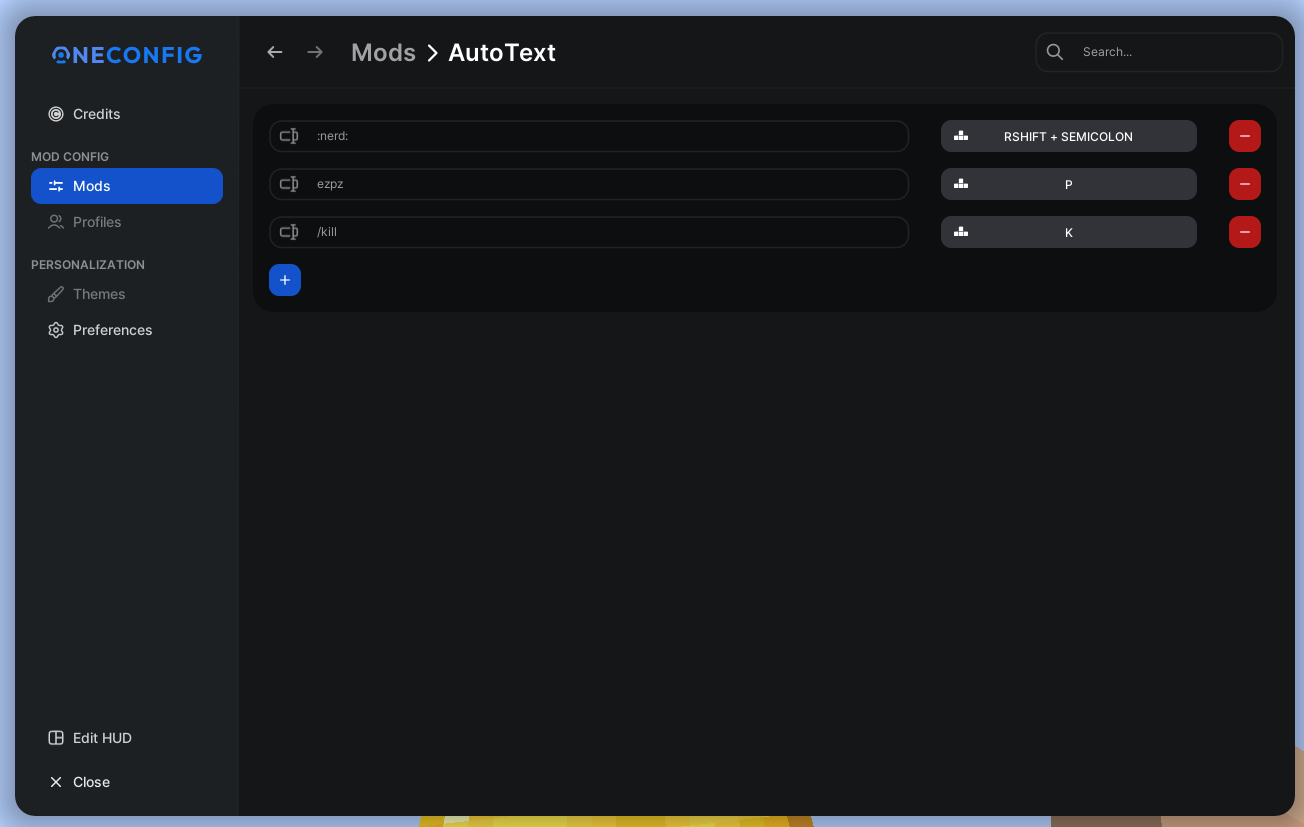
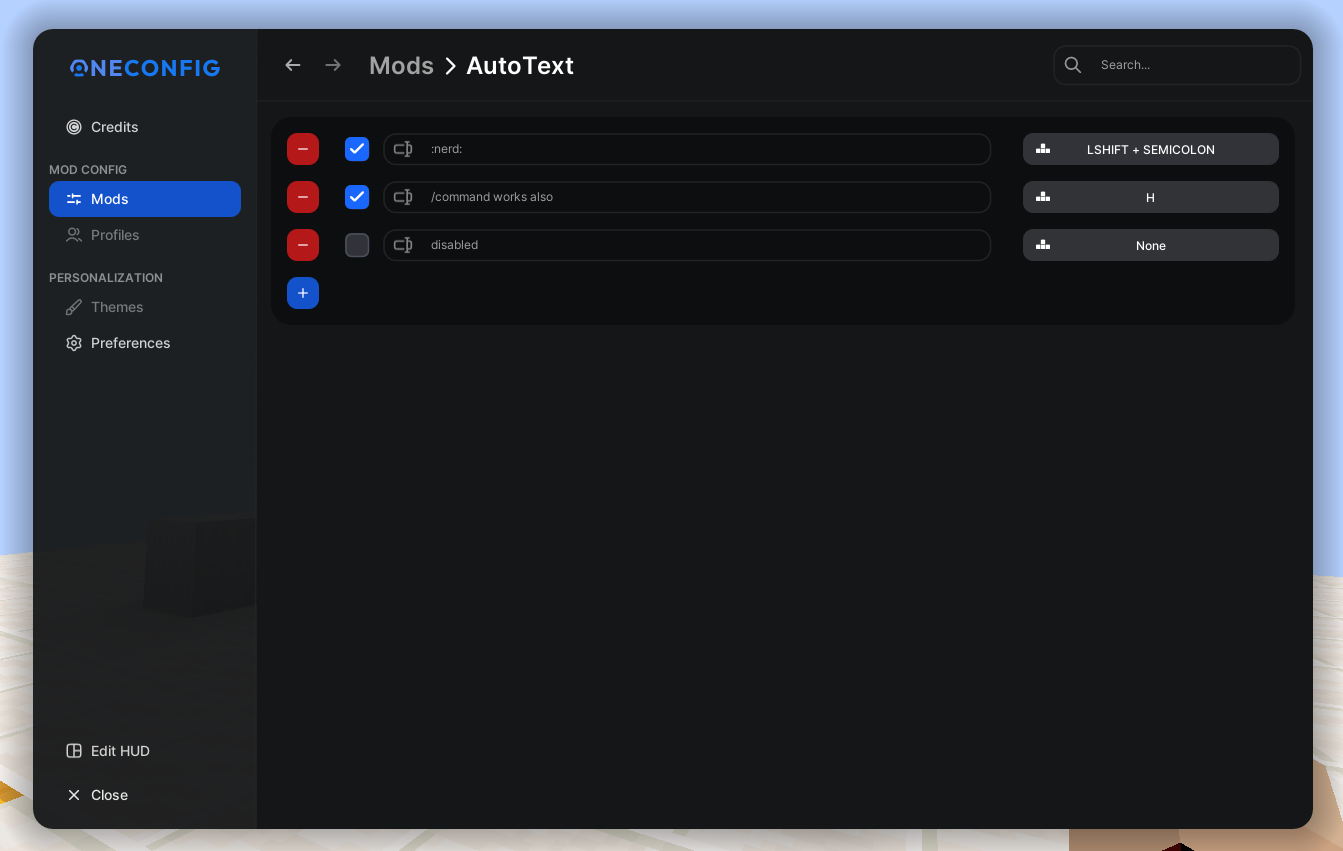
v1.0.2

Changed region(s): [[0.0, 0.0, 1.0, 1.0], [0.184, 0.1511, 0.3681, 0.3628], [0.3374, 0.2116, 0.3988, 0.2418]]

diff --git a/src/main/kotlin/me/redth/autotext/element/MacroKeyBindButton.kt b/src/main/kotlin/me/redth/autotext/element/MacroKeyBindButton.kt
@@ -13,48 +13,46 @@ class MacroKeyBindButton(
     private val keyBind: OneKeyBind
 ) : BasicButton(256, 32, SVGs.KEYSTROKE, ALIGNMENT_JUSTIFIED, ColorPalette.SECONDARY) {
     private val allKeysReleased get() = keyBind.size != 0 && !keyBind.isActive
-//    private val listening get() = isToggled
-//
-//    private fun stopListening() {
-//        isToggled = false
-//
-//    }
+    private val recording get() = isToggled
+
+    private fun stopRecording() {
+        isToggled = false
+        OneConfigGui.INSTANCE.allowClose = true
+    }
 
     init {
         setToggleable(true)
+        setClickAction {
+            OneConfigGui.INSTANCE.allowClose = !recording
+        }
     }
 
     override fun update(x: Float, y: Float, inputHandler: InputHandler) {
         super.update(x, y, inputHandler)
 
-        if (isToggled) whileListening()
+        if (recording) whileListening()
         text = getDisplayText()
-    }
-
-    override fun setToggled(toggled: Boolean) {
-        super.setToggled(toggled)
-        OneConfigGui.INSTANCE.allowClose = !toggled
     }
 
     private fun whileListening() {
         when {
             isClicked -> keyBind.clearKeys()
-            allKeysReleased -> isToggled = false
+            allKeysReleased -> stopRecording()
         }
     }
 
     private fun getDisplayText() = keyBind.display.ifEmpty {
-        if (isToggled) "Recording... (ESC to clear)"
+        if (recording) "Recording... (ESC to clear)"
         else "None"
     }
 
     fun isKeyTyped(keyCode: Int): Boolean {
-        if (!isToggled) return false
+        if (!recording) return false
 
         when (keyCode) {
             UKeyboard.KEY_ESCAPE -> {
                 keyBind.clearKeys()
-                isToggled = false
+                stopRecording()
             }
 
             else -> keyBind.addKey(keyCode)

diff --git a/src/main/kotlin/me/redth/autotext/element/MacroTextField.kt b/src/main/kotlin/me/redth/autotext/element/MacroTextField.kt
@@ -10,9 +10,9 @@ class MacroTextField(
     private val macro: Macro
 ) : TextInputField(608, 32, "", false, false, SVGs.TEXT_INPUT) {
 
-    override fun update(x: Float, y: Float, inputHandler: InputHandler) {
-        super.update(x, y, inputHandler)
+    override fun draw(vg: Long, x: Float, y: Float, inputHandler: InputHandler) {
         input = macro.text
+        super.draw(vg, x, y, inputHandler)
     }
 
     fun isKeyTyped(key: Char, keyCode: Int): Boolean {
